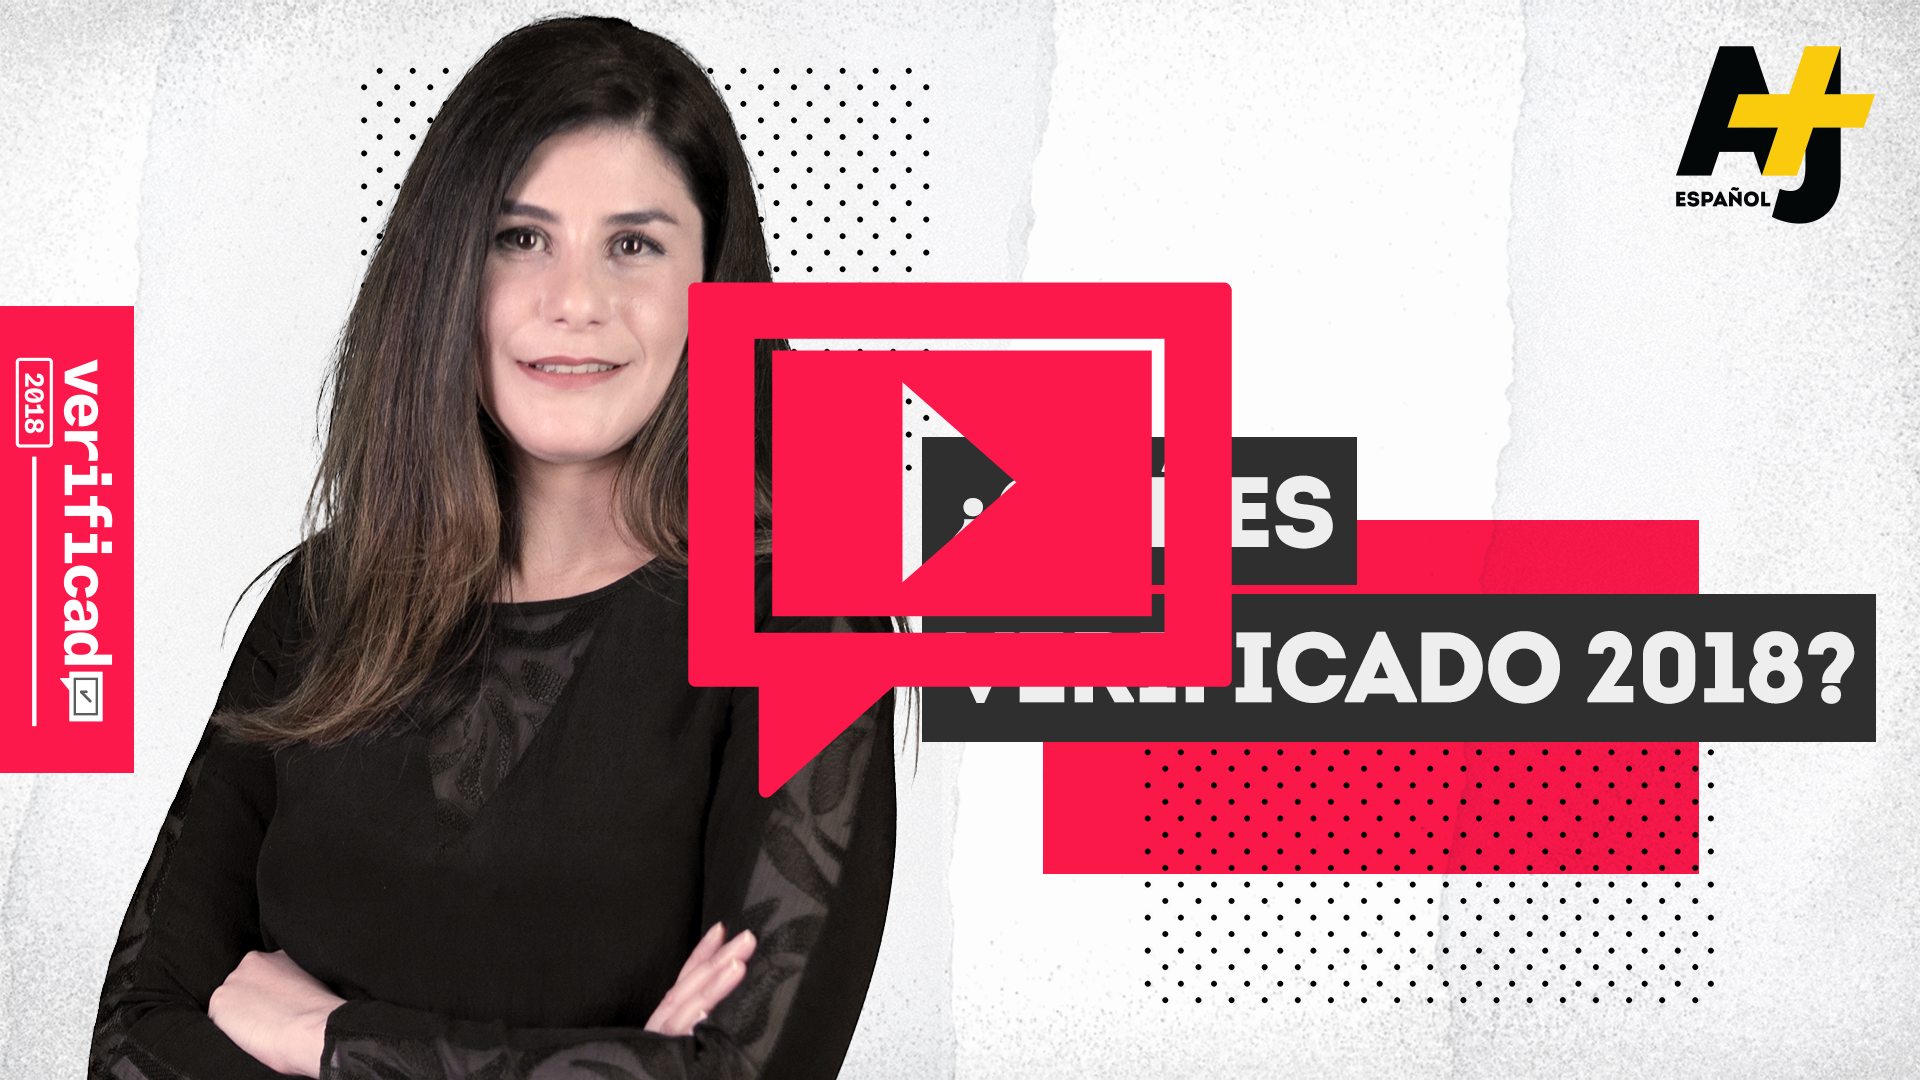
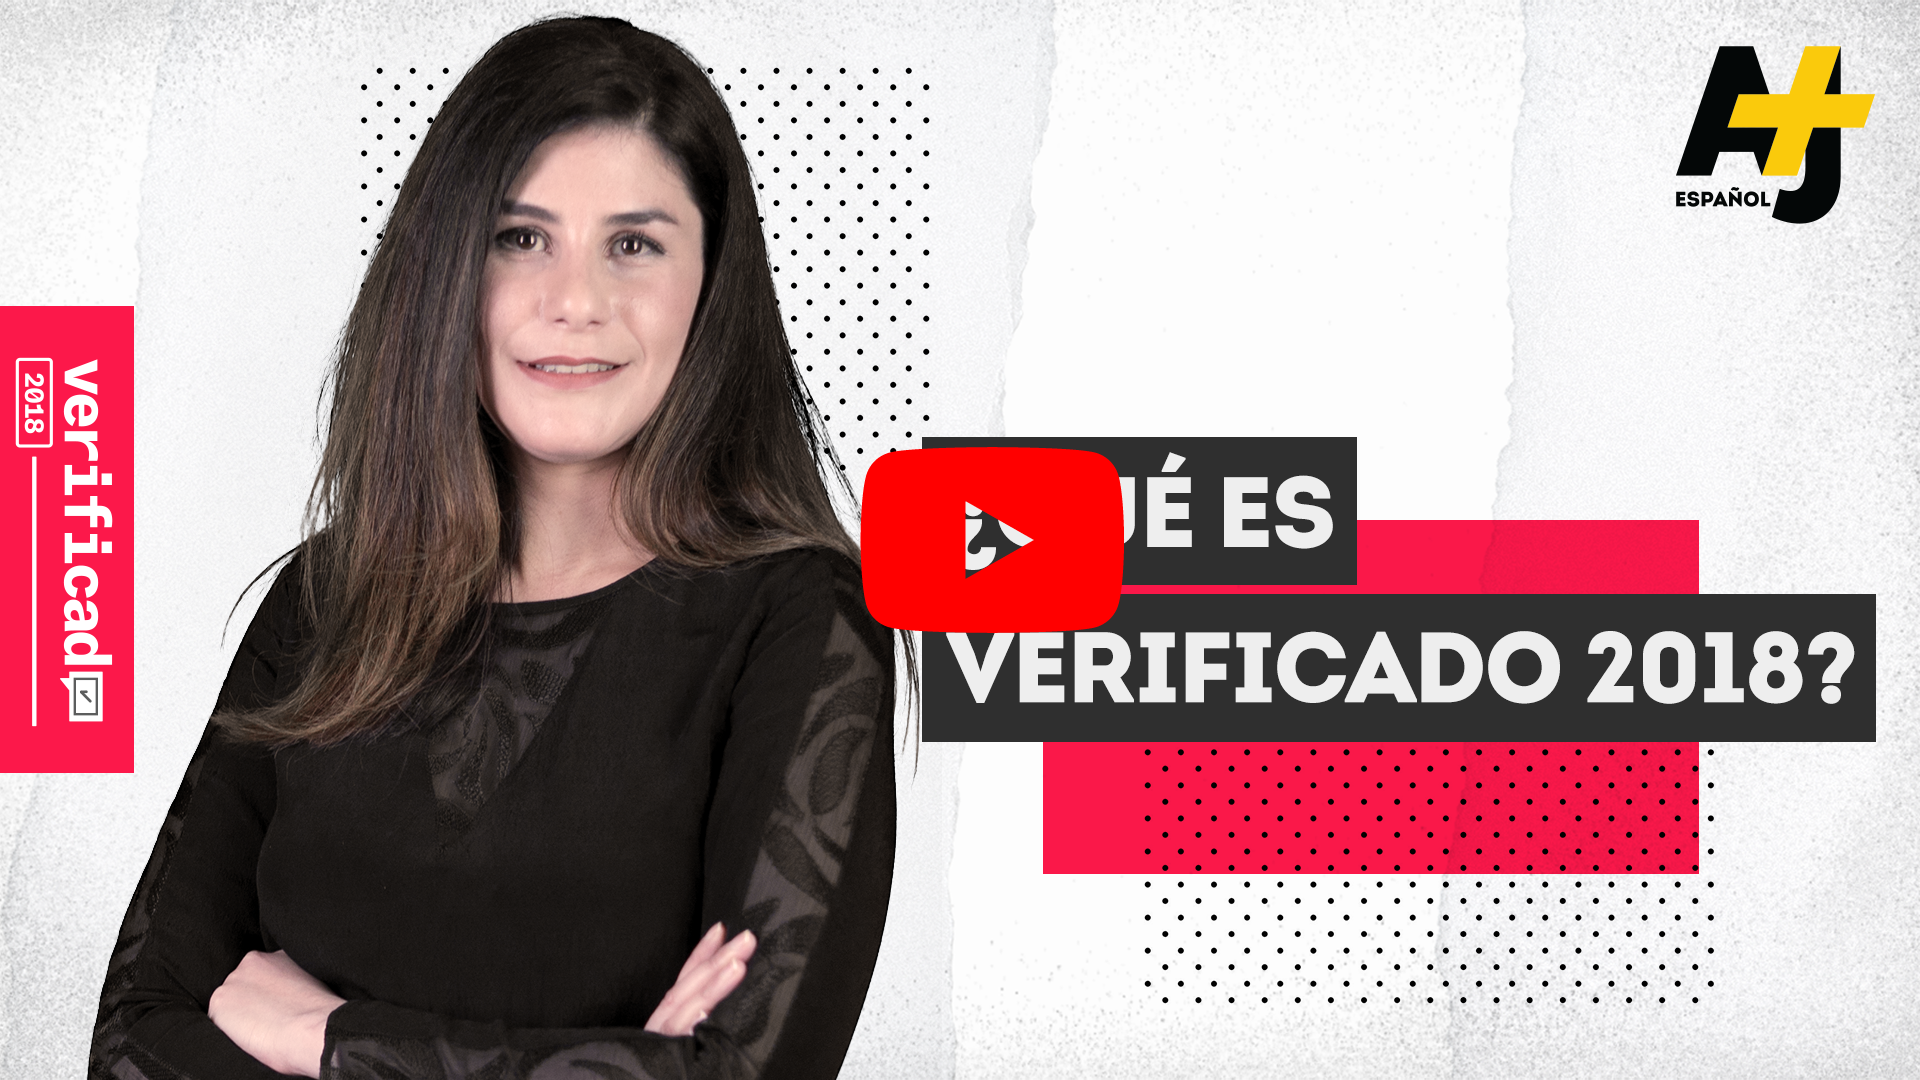
cambios lang-switcher, thumb video, título sitio

Changed region(s): [[0.3438, 0.2444, 0.6562, 0.7333]]

diff --git a/style.css b/style.css
@@ -119,6 +119,16 @@ header nav ul li:before {content: ""; position: absolute; width: 100%; height: 2
 
 header nav ul li:hover:before, header nav ul li:focus:before {visibility: visible; transform: scaleX(1);}
 
+header .lang_switcher {float: right;}
+header .lang_switcher ul {list-style: none;}
+header .lang_switcher li {display: block; float: left; margin-right: 10px; padding-right: 10px; border-right: 2px solid #000; margin-top: 10px; font-family: 'Roboto Mono', monospace; font-size: 18px;}
+header .lang_switcher li:last-child {border-right: 0px;}
+header .lang_switcher li a {color: #000; text-decoration: none;}
+
+header.top .lang_switcher li {display: block; float: left; margin-right: 10px; padding-right: 10px; border-right: 2px solid #fff; margin-top: 10px; font-family: 'Roboto Mono', monospace; font-size: 18px;}
+header.top .lang_switcher li:last-child {border-right: 0px;}
+header.top .lang_switcher li a {color: #fff;}
+
 @media only screen and (max-width: 600px){
 	header {width: 100%; position: fixed; top: 0px; padding: 10px 0; background-color: transparent; -webkit-transition: background-color .25s linear; -ms-transition: background-color .25s linear; transition: background-color .25s linear;}	
 	header .logo {width: 50%; float: none; margin: 0 auto;}

diff --git a/js/functions.js b/js/functions.js
@@ -47,8 +47,8 @@
 			});
 		}
 
-		//$('#pause').hide();
-		$('#play').hide();
+		$('#pause').hide();
+		//$('#play').hide();
 		$('#play').on('click', function(){
 			$('#landing_vid').get(0).play();
 			$(this).hide();

diff --git a/header.php b/header.php
@@ -1,7 +1,7 @@
 <!doctype html>
 	<head>
 		<meta charset="utf-8">
-		<title><?php print_title(); ?></title>
+		<title>Presentación Verificado 2018</title>
 		<link rel="shortcut icon" href="<?php echo THEMEPATH; ?>images/favicon.ico">
 		<meta name="description" content="<?php bloginfo('description'); ?>">
 		<meta http-equiv="X-UA-Compatible" content="IE=edge,chrome=1">
@@ -20,11 +20,11 @@
 		<div class="container">
 			<?php if(is_home()){ ?>
 			<div id="video_landing" class="">
-				<video width="100%" id="landing_vid" controlsList="nodownload" autoplay>
+				<video width="100%" id="landing_vid" controlsList="nodownload">
 				  <source src="http://pablocovarrubias.com/landing.mp4" type="video/mp4">
 				</video>
 				<div class="play_pause">
-					<!--<img id="play" src="<?php echo THEMEPATH; ?>/images/thumb_video.png">-->
+					<img id="play" src="<?php echo THEMEPATH; ?>/images/thumb_video.png">
 					<!--<img id="play" src="<?php echo THEMEPATH; ?>images/play.svg">-->
 					<img id="pause" src="<?php echo THEMEPATH; ?>images/pause.svg">
 
@@ -64,6 +64,10 @@
 							<?php } ?> 
 						</ul>
 					</nav>
+					<div class="lang_switcher">
+						<li><a href="<?php echo site_url(); ?>/?lang=es">es</a></li>
+						<li><a href="<?php echo site_url(); ?>/?lang=en">en</a></li>
+					</div>
 				</div>
 			</header>
 		</div>
